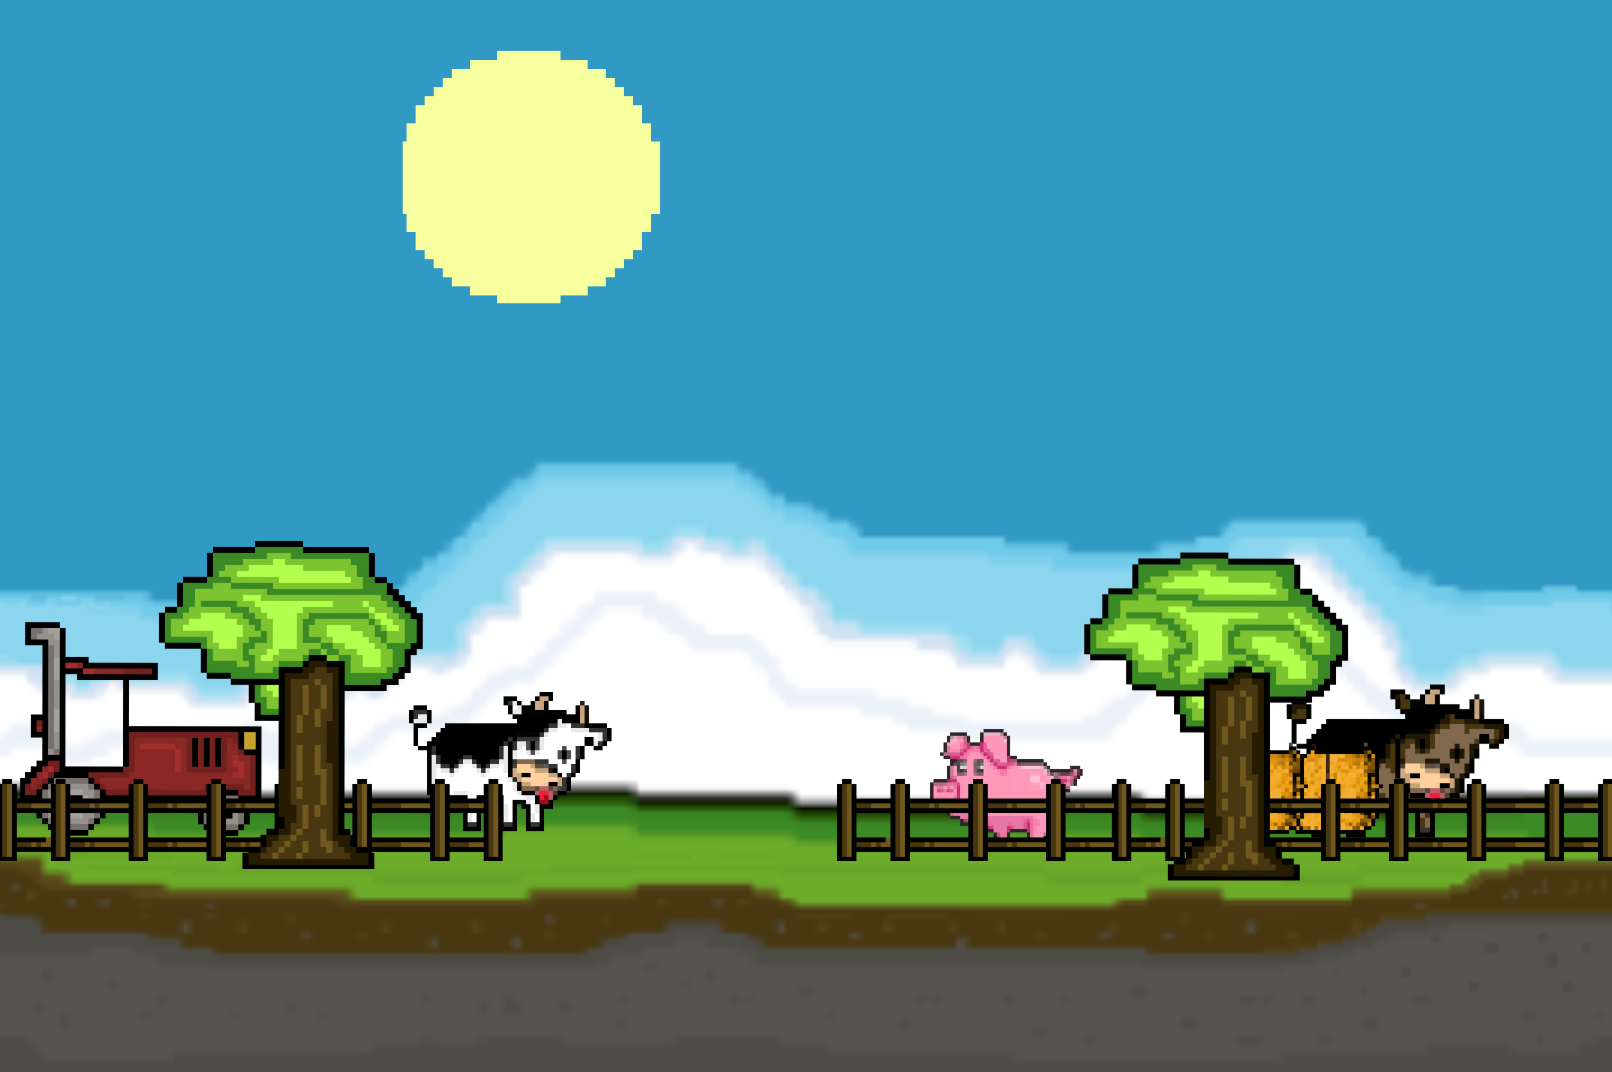
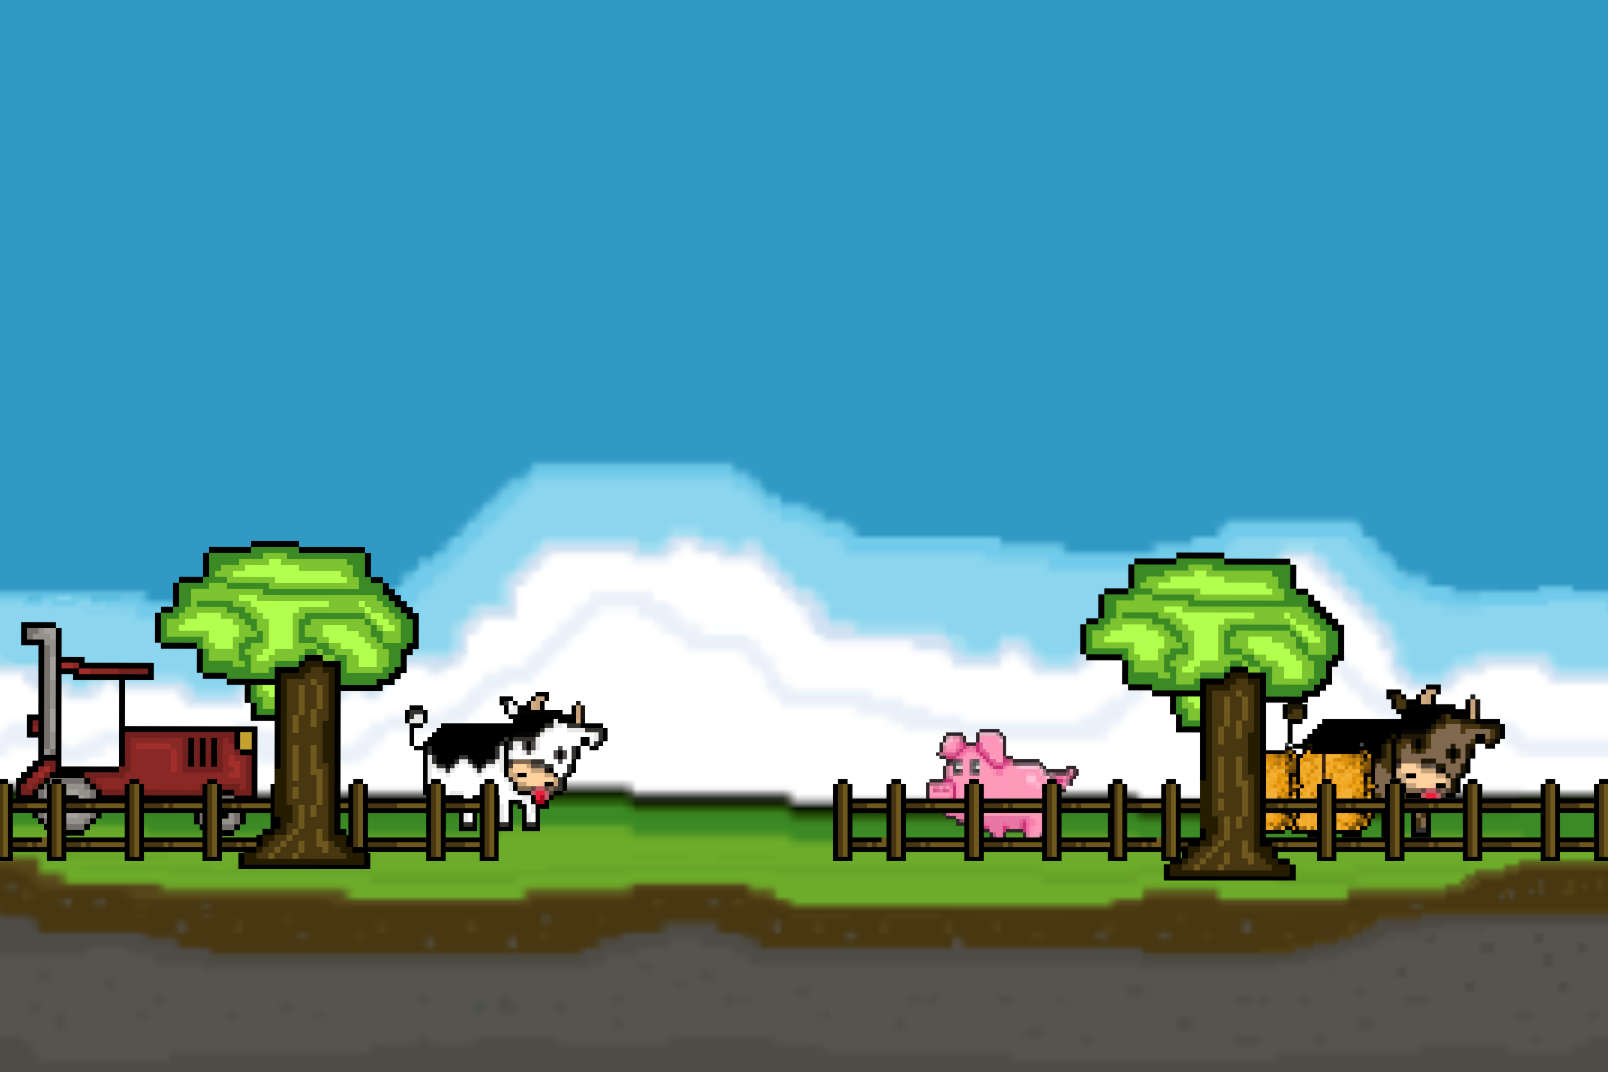
Atualizacao/25/05/2025

diff --git a/trashrunner10mim.py b/trashrunner10mim.py
@@ -20,12 +20,20 @@ tela = pygame.display.set_mode((LARGURA, ALTURA))
 pygame.display.set_caption("Trash Runner")
 clock = pygame.time.Clock()
 
-# Carregando múltiplas imagens de fundo da pasta 'fundo'
+# Carregando fundos
 fundos = []
 for i in range(1, 5):
-    img = pygame.image.load(f"fundo/f{i}.png").convert()  # Caminho corrigido
+    img = pygame.image.load(f"fundo/f{i}.png").convert()
     img = pygame.transform.scale(img, (LARGURA, ALTURA))
     fundos.append(img)
+
+fundos2 = []
+for i in range(1, 5):
+    img = pygame.image.load(f"fundo2/fn{i}.png").convert()
+    img = pygame.transform.scale(img, (LARGURA, ALTURA))
+    fundos2.append(img)
+
+fundo_atual = fundos
 
 # Spritesheet e imagens
 spritesheet = pygame.image.load("ps1.png").convert_alpha()
@@ -42,14 +50,20 @@ TELA_INICIAL = 0
 JOGANDO = 1
 GAME_OVER = 2
 estado_jogo = TELA_INICIAL
+
 vida = 1
 pontuacao = 0
 score = 0
+
 velocidade_base = 10
 multiplicador_velocidade = 1.0
+
 proxima_meta = 1500
 passo_meta = 2000
 passo_multiplicador = 0.1
+
+# Controle do fundo quando pegar 25 lixos
+fundo_trocado = False
 
 # Fundo
 velocidade_fundo = 5
@@ -100,7 +114,7 @@ class Jogador(pygame.sprite.Sprite):
             self.vel_y = -30
             self.pulando = True
             som_pulo.play()
-# obstaculo
+
 class Obstaculo(pygame.sprite.Sprite):
     def __init__(self):
         super().__init__()
@@ -114,7 +128,7 @@ class Obstaculo(pygame.sprite.Sprite):
         self.rect.x += -velocidade_base * multiplicador_velocidade
         if self.rect.right < 0:
             self.rect.x = LARGURA + randint(300, 600)
-# lixo
+
 class Lixo(pygame.sprite.Sprite):
     def __init__(self):
         super().__init__()
@@ -136,6 +150,7 @@ todos = pygame.sprite.Group(jogador, obstaculo, lixo)
 
 def desenhar_tela_inicial():
     tela.blit(fundos[0], (0, 0))
+    fonte_titulo = pygame.font.SysFont("Arial Black", 140)
     logo = pygame.image.load("Trash_Runner_logo.png").convert_alpha()
     logo = pygame.transform.scale(logo, (800, 190))
     tela.blit(logo, (LARGURA//2 - logo.get_width()//2, 200))
@@ -149,7 +164,7 @@ def desenhar_tela_inicial():
     pygame.display.flip()
 
 def desenhar_game_over():
-    tela.blit(fundos[0], (0, 0))
+    tela.blit(fundo_atual[0], (0, 0))
     tela.blit(img_game_over, (LARGURA//2 - img_game_over.get_width()//2, 250))
     fonte_botao = pygame.font.SysFont("Arial", 70, bold=True)
     reiniciar = fonte_botao.render(" REINICIAR", True, PRETO)
@@ -173,6 +188,8 @@ while True:
                     pontuacao = 0
                     multiplicador_velocidade = 1.0
                     proxima_meta = 1500
+                    fundo_atual = fundos
+                    fundo_trocado = False
                 elif sair_rect.collidepoint(evento.pos):
                     pygame.quit()
                     exit()
@@ -201,6 +218,12 @@ while True:
             # som_coleta.play()
             pontuacao += 1
             lixo.rect.x = LARGURA + randint(600, 1000)
+            # a velocidade 
+            if pontuacao % 5 == 0:
+                multiplicador_velocidade += 0.5
+                if not fundo_trocado:
+                    fundo_atual = fundos2
+                    fundo_trocado = True
 
         # Atualiza posições dos fundos
         for i in range(num_fundos):
@@ -210,14 +233,14 @@ while True:
 
         # Desenha os fundos
         for i in range(num_fundos):
-            tela.blit(fundos[i], (posicoes_fundos[i], 0))
+            tela.blit(fundo_atual[i], (posicoes_fundos[i], 0))
 
         todos.draw(tela)
 
         fonte = pygame.font.SysFont(None, 60)
         tela.blit(fonte.render(f"Distância: {score}", True, BRANCO), (200, 150))
         tela.blit(fonte.render(f"Pontos: {pontuacao}", True, BRANCO), (200, 200))
-        tela.blit(fonte.render(f"Velocidade: {multiplicador_velocidade:.1f}", True, BRANCO), (200, 250))
+        tela.blit(fonte.render(f"Velocidade: {velocidade_base * multiplicador_velocidade:.1f}", True, BRANCO), (200, 250))
         pygame.display.flip()
 
     elif estado_jogo == GAME_OVER:
@@ -237,4 +260,11 @@ while True:
                     lixo.rect.x = LARGURA + randint(600, 1000)
                     multiplicador_velocidade = 1.0
                     proxima_meta = 1500
+                    fundo_atual = fundos
+                    fundo_trocado = False
                     estado_jogo = JOGANDO
+
+
+# colocar mais mundos 
+# colocar a imagem da fafire 
+# depois de morre fica maias bonito 

diff --git a/trashrunner10.py b/trashrunner10.py
@@ -20,12 +20,19 @@ tela = pygame.display.set_mode((LARGURA, ALTURA))
 pygame.display.set_caption("Trash Runner")
 clock = pygame.time.Clock()
 
-# Carregando múltiplas imagens de fundo da pasta 'fundo'
+# Carregando fundos iniciais
 fundos = []
 for i in range(1, 5):
-    img = pygame.image.load(f"fundo/f{i}.png").convert()  # Caminho corrigido
+    img = pygame.image.load(f"fundo/f{i}.png").convert()
     img = pygame.transform.scale(img, (LARGURA, ALTURA))
     fundos.append(img)
+
+# Carregando fundos alternativos (após 25 lixos)
+fundos2 = []
+for i in range(1, 5):
+    img = pygame.image.load(f"fundo2/fn{i}.png").convert()
+    img = pygame.transform.scale(img, (LARGURA, ALTURA))
+    fundos2.append(img)
 
 # Spritesheet e imagens
 spritesheet = pygame.image.load("ps1.png").convert_alpha()
@@ -55,6 +62,7 @@ passo_multiplicador = 0.1
 velocidade_fundo = 5
 num_fundos = len(fundos)
 posicoes_fundos = [i * LARGURA for i in range(num_fundos)]
+fundo_atual = fundos
 
 # Botões
 play_rect = pygame.Rect(LARGURA//2 - 200, 400, 400, 100)
@@ -100,7 +108,7 @@ class Jogador(pygame.sprite.Sprite):
             self.vel_y = -30
             self.pulando = True
             som_pulo.play()
-# obstaculo
+
 class Obstaculo(pygame.sprite.Sprite):
     def __init__(self):
         super().__init__()
@@ -114,7 +122,7 @@ class Obstaculo(pygame.sprite.Sprite):
         self.rect.x += -velocidade_base * multiplicador_velocidade
         if self.rect.right < 0:
             self.rect.x = LARGURA + randint(300, 600)
-# lixo
+
 class Lixo(pygame.sprite.Sprite):
     def __init__(self):
         super().__init__()
@@ -136,6 +144,7 @@ todos = pygame.sprite.Group(jogador, obstaculo, lixo)
 
 def desenhar_tela_inicial():
     tela.blit(fundos[0], (0, 0))
+    fonte_titulo = pygame.font.SysFont("Arial Black", 140)
     logo = pygame.image.load("Trash_Runner_logo.png").convert_alpha()
     logo = pygame.transform.scale(logo, (800, 190))
     tela.blit(logo, (LARGURA//2 - logo.get_width()//2, 200))
@@ -173,6 +182,7 @@ while True:
                     pontuacao = 0
                     multiplicador_velocidade = 1.0
                     proxima_meta = 1500
+                    fundo_atual = fundos
                 elif sair_rect.collidepoint(evento.pos):
                     pygame.quit()
                     exit()
@@ -202,6 +212,11 @@ while True:
             pontuacao += 1
             lixo.rect.x = LARGURA + randint(600, 1000)
 
+            # Verifica se atingiu 25 lixos coletados
+            if pontuacao == 10:
+                multiplicador_velocidade = 1.5
+                fundo_atual = fundos2
+
         # Atualiza posições dos fundos
         for i in range(num_fundos):
             posicoes_fundos[i] -= velocidade_fundo
@@ -210,7 +225,7 @@ while True:
 
         # Desenha os fundos
         for i in range(num_fundos):
-            tela.blit(fundos[i], (posicoes_fundos[i], 0))
+            tela.blit(fundo_atual[i], (posicoes_fundos[i], 0))
 
         todos.draw(tela)
 
@@ -237,4 +252,5 @@ while True:
                     lixo.rect.x = LARGURA + randint(600, 1000)
                     multiplicador_velocidade = 1.0
                     proxima_meta = 1500
+                    fundo_atual = fundos
                     estado_jogo = JOGANDO

diff --git a/trashrunner8.py b/trashrunner8.py
@@ -23,7 +23,7 @@ pygame.display.set_caption("Trash Runner")
 clock = pygame.time.Clock()
 
 # Carrega imagens
-fundo = pygame.image.load("sprite_0.png").convert()
+fundo = pygame.image.load("bar1.png").convert()
 fundo = pygame.transform.scale(fundo, (LARGURA, ALTURA))
 spritesheet = pygame.image.load("ps1.png").convert_alpha()
 img_game_over = pygame.image.load("game_over.png").convert_alpha()
